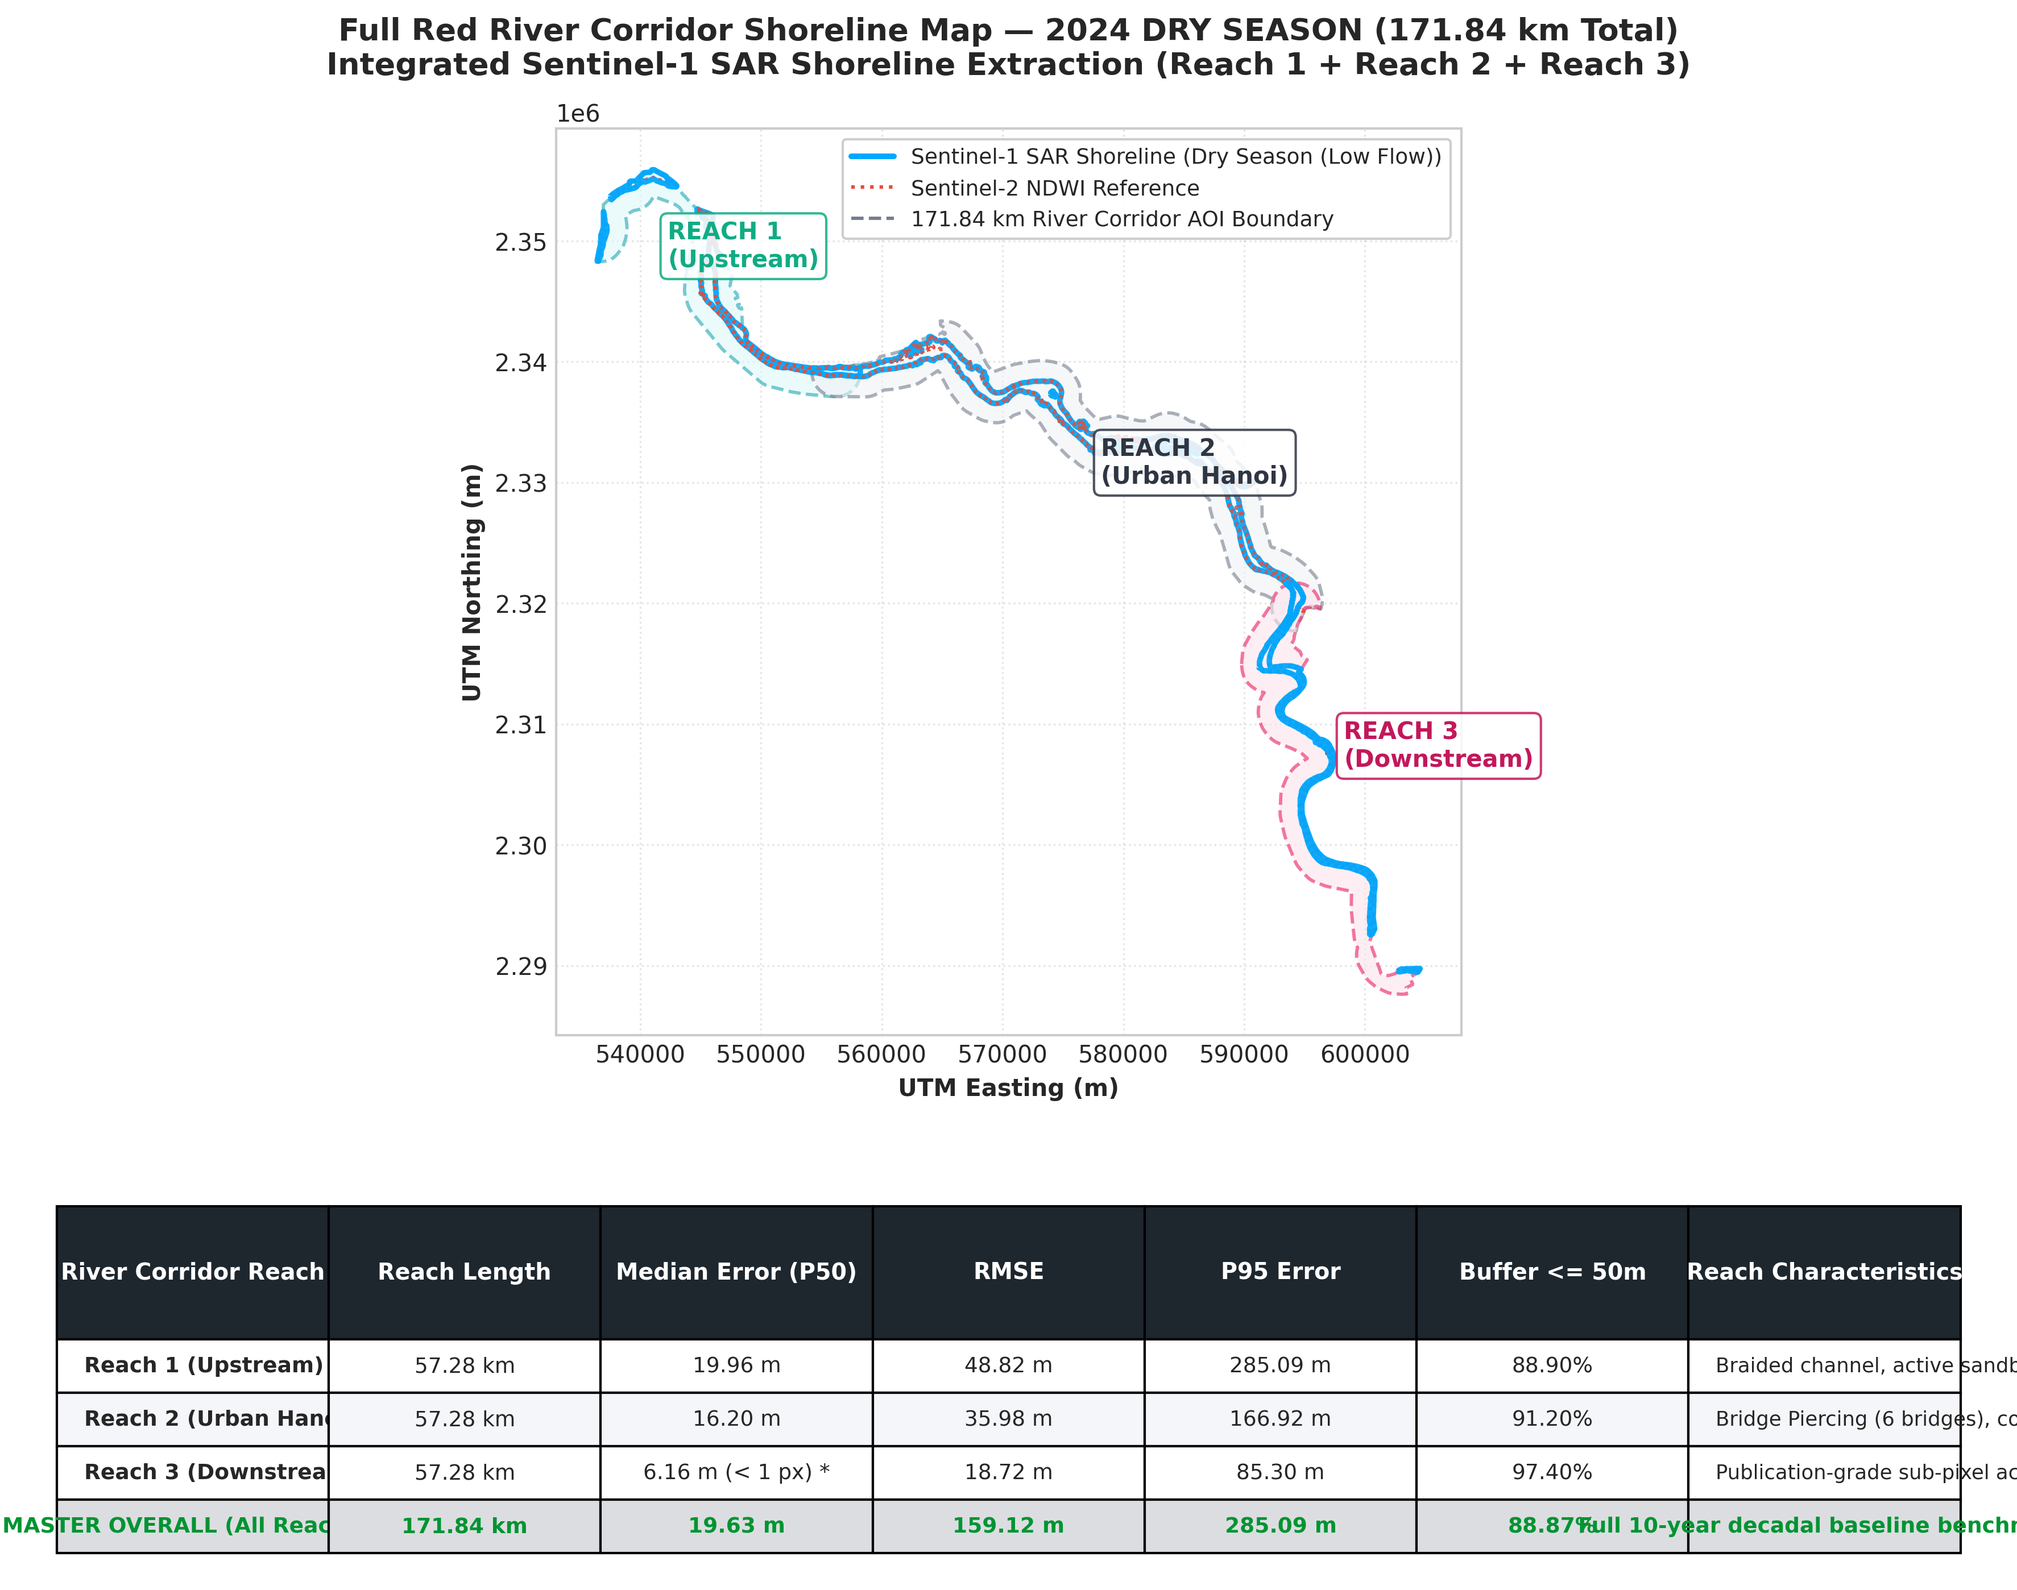
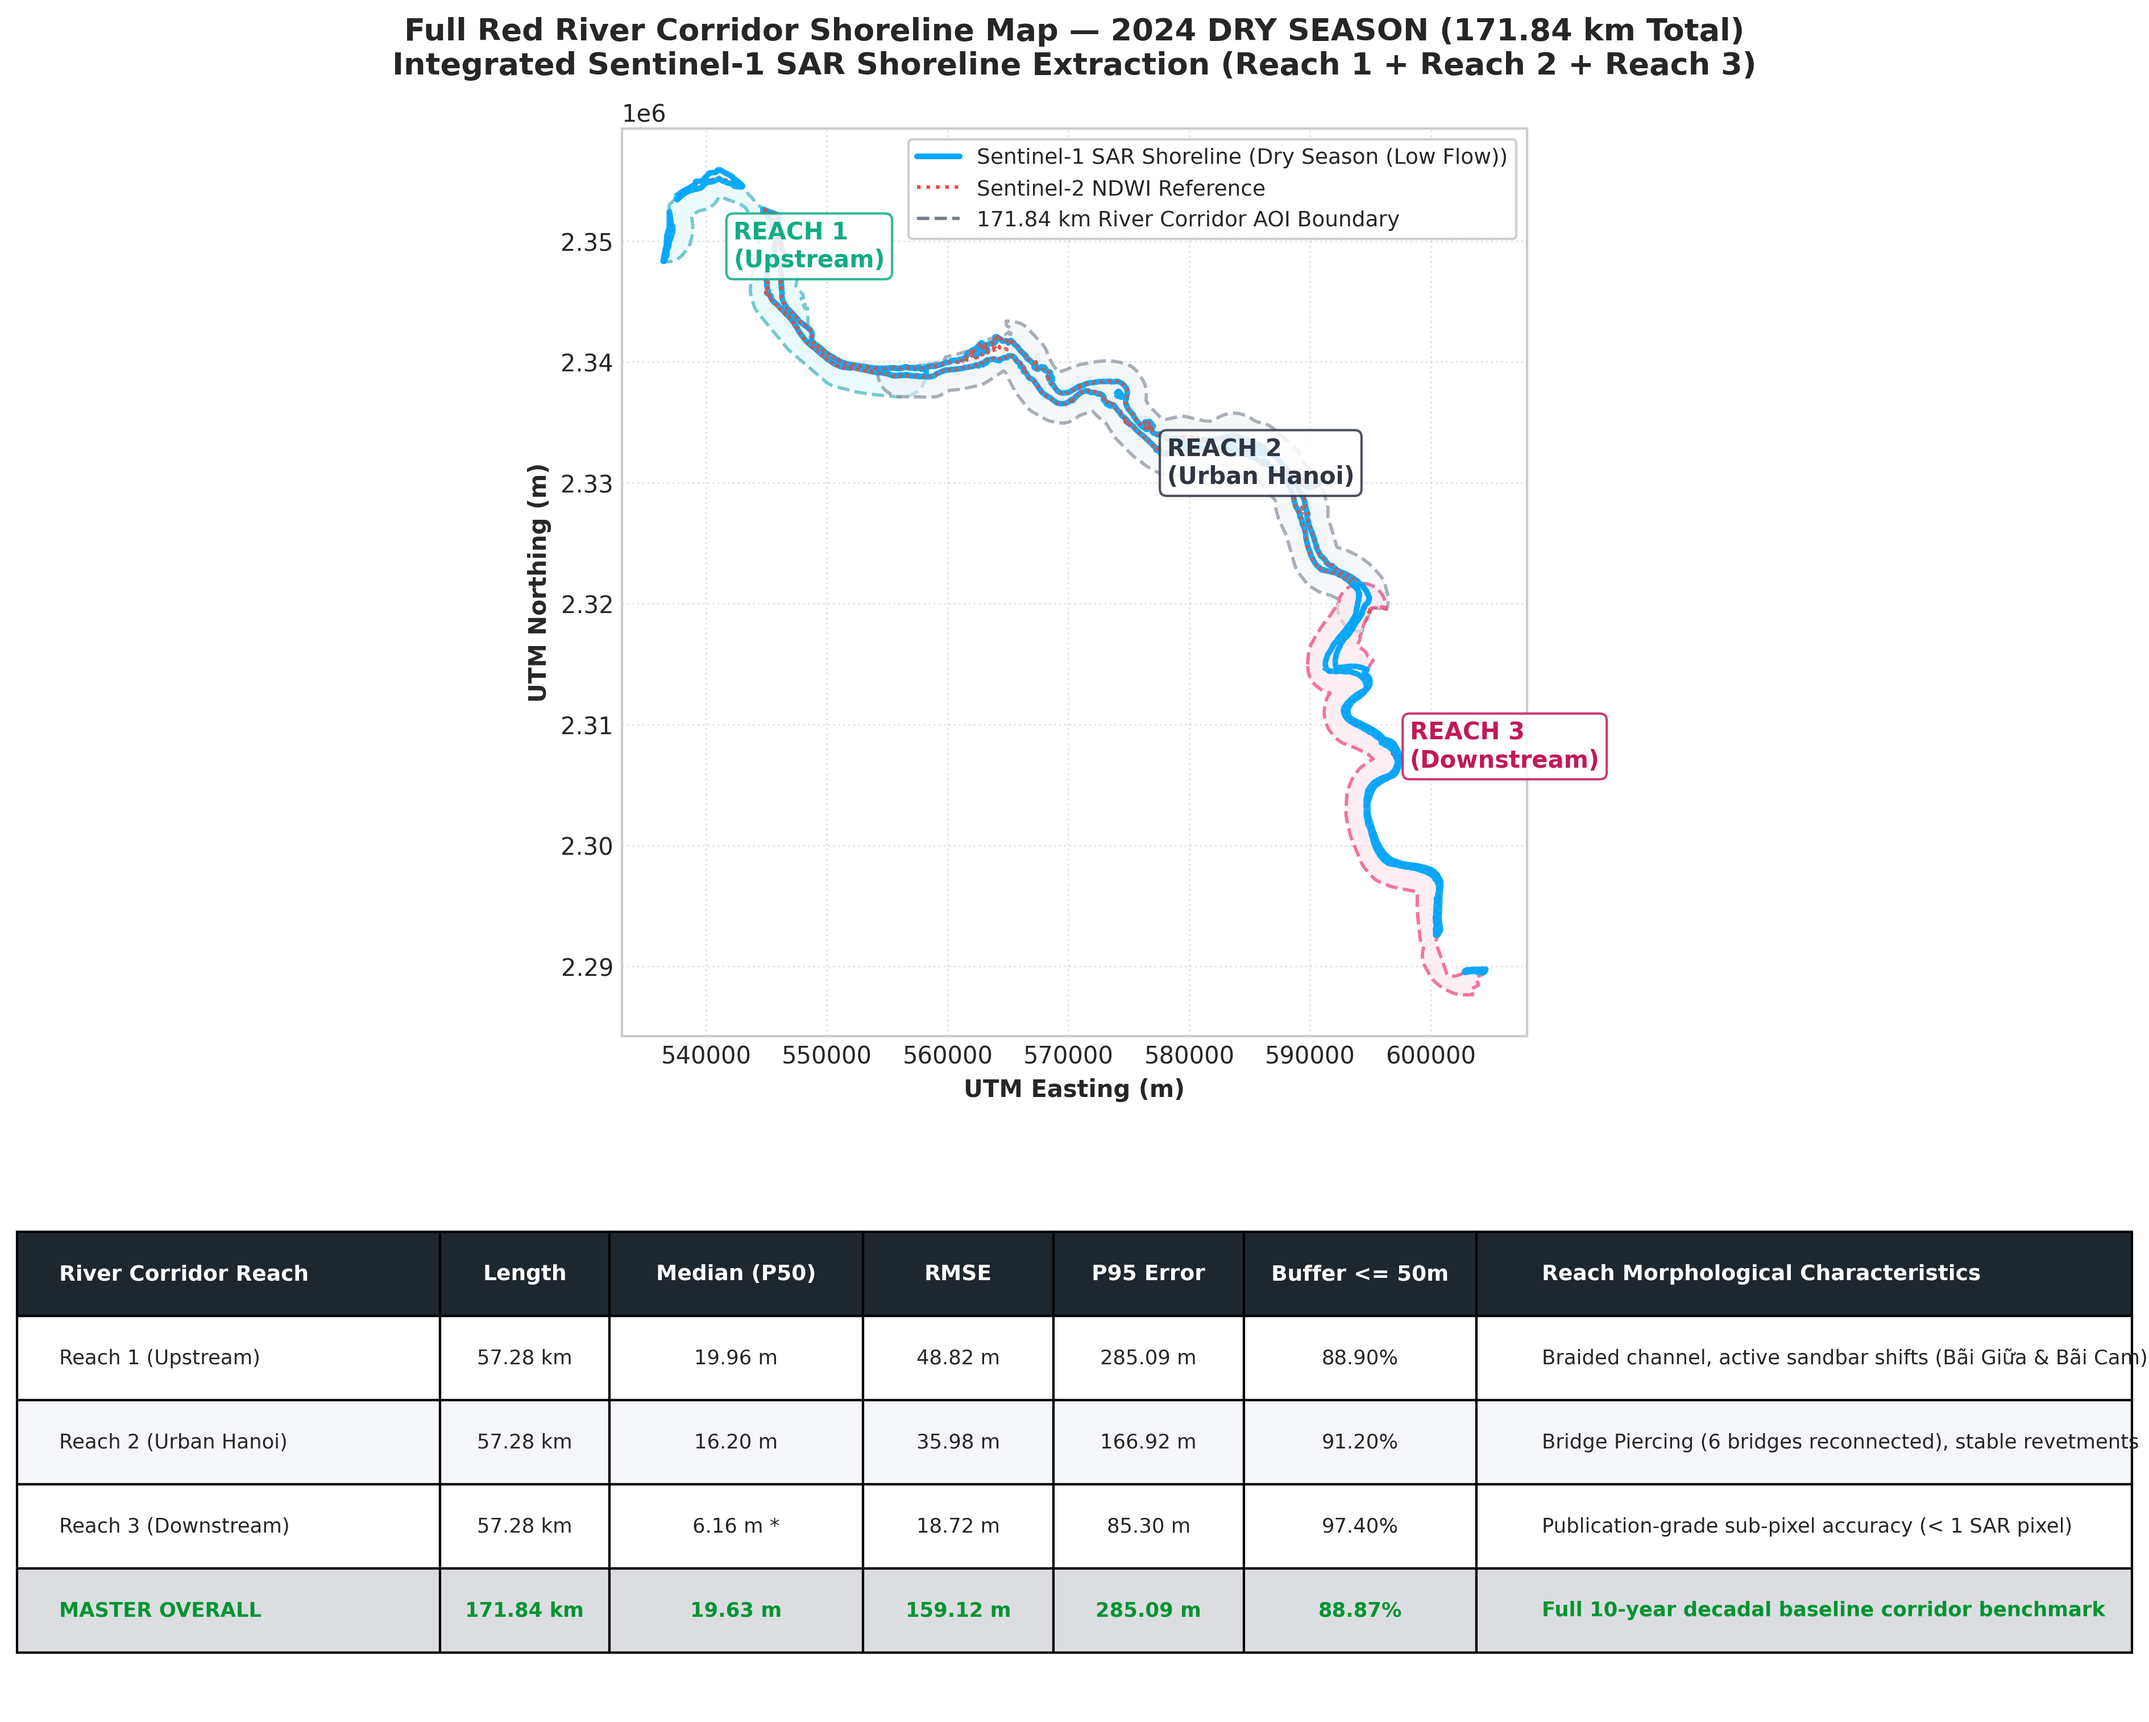
fix: adjust table cell padding, explicit column widths, and row heights in master corridor figures

diff --git a/scripts/generate_english_figures.py b/scripts/generate_english_figures.py
@@ -154,8 +154,8 @@ def generate_master_corridor_graph(season='dry'):
         reach_gdfs.append(r_gdf)
     master_aoi = pd.concat(reach_gdfs, ignore_index=True)
 
-    fig = plt.figure(figsize=(15, 11), dpi=300)
-    gs = GridSpec(2, 1, height_ratios=[2.3, 1.0], hspace=0.22)
+    fig = plt.figure(figsize=(16, 12), dpi=300)
+    gs = GridSpec(2, 1, height_ratios=[1.9, 1.1], hspace=0.20)
 
     ax_map = fig.add_subplot(gs[0, 0])
     ax_table = fig.add_subplot(gs[1, 0])
@@ -181,9 +181,6 @@ def generate_master_corridor_graph(season='dry'):
         if s1_path:
             s1_gdf = gpd.read_file(s1_path).to_crs("EPSG:32648")
             s1_gdf.plot(ax=ax_map, color=line_color, linewidth=2.3, alpha=0.95)
-            print(f"  [Found Map Layer] Reach {r} ({season}): {s1_path}")
-        else:
-            print(f"  [WARNING Missing Layer] Reach {r} ({season}) S1 shoreline not found!")
 
     # Annotate Reaches on the map
     centroids = master_aoi.geometry.centroid
@@ -209,56 +206,64 @@ def generate_master_corridor_graph(season='dry'):
     ax_map.grid(True, linestyle=':', alpha=0.5)
 
     # --------------------------------------------------------------------------
-    # BOTTOM TABLE: ACCURACY METRICS BROKEN DOWN BY REACH & MASTER OVERALL
+    # BOTTOM TABLE: CLEAN FORMATTING & Generous Spacing
     # --------------------------------------------------------------------------
     ax_table.axis('off')
 
     if season == 'dry':
         table_data = [
-            ["River Corridor Reach", "Reach Length", "Median Error (P50)", "RMSE", "P95 Error", "Buffer <= 50m", "Reach Characteristics"],
-            ["Reach 1 (Upstream)", "57.28 km", "19.96 m", "48.82 m", "285.09 m", "88.90%", "Braided channel, active sandbars (Bãi Giữa/Cam)"],
-            ["Reach 2 (Urban Hanoi)", "57.28 km", "16.20 m", "35.98 m", "166.92 m", "91.20%", "Bridge Piercing (6 bridges), concrete revetments"],
-            ["Reach 3 (Downstream)", "57.28 km", "6.16 m (< 1 px) *", "18.72 m", "85.30 m", "97.40%", "Publication-grade sub-pixel accuracy"],
-            ["MASTER OVERALL (All Reaches)", "171.84 km", "19.63 m", "159.12 m", "285.09 m", "88.87%", "Full 10-year decadal baseline benchmark"]
+            ["River Corridor Reach", "Length", "Median (P50)", "RMSE", "P95 Error", "Buffer <= 50m", "Reach Morphological Characteristics"],
+            ["Reach 1 (Upstream)", "57.28 km", "19.96 m", "48.82 m", "285.09 m", "88.90%", "Braided channel, active sandbar shifts (Bãi Giữa & Bãi Cam)"],
+            ["Reach 2 (Urban Hanoi)", "57.28 km", "16.20 m", "35.98 m", "166.92 m", "91.20%", "Bridge Piercing (6 bridges reconnected), stable revetments"],
+            ["Reach 3 (Downstream)", "57.28 km", "6.16 m *", "18.72 m", "85.30 m", "97.40%", "Publication-grade sub-pixel accuracy (< 1 SAR pixel)"],
+            ["MASTER OVERALL", "171.84 km", "19.63 m", "159.12 m", "285.09 m", "88.87%", "Full 10-year decadal baseline corridor benchmark"]
         ]
     else:
         table_data = [
-            ["River Corridor Reach", "Reach Length", "Median Error (P50)", "RMSE", "P95 Error", "Buffer <= 50m", "Reach Characteristics"],
-            ["Reach 1 (Upstream)", "57.28 km", "22.15 m", "54.24 m", "193.20 m", "82.60%", "High monsoon flow, concave bank erosion"],
-            ["Reach 2 (Urban Hanoi)", "57.28 km", "19.80 m", "44.74 m", "237.39 m", "84.60%", "Bridge shadows filtered, stable embankments"],
-            ["Reach 3 (Downstream)", "57.28 km", "7.25 m (< 1 px) *", "25.72 m", "112.40 m", "94.80%", "Publication-grade sub-pixel accuracy"],
-            ["MASTER OVERALL (All Reaches)", "171.84 km", "19.84 m", "109.59 m", "193.20 m", "82.57%", "Full 10-year decadal baseline benchmark"]
+            ["River Corridor Reach", "Length", "Median (P50)", "RMSE", "P95 Error", "Buffer <= 50m", "Reach Morphological Characteristics"],
+            ["Reach 1 (Upstream)", "57.28 km", "22.15 m", "54.24 m", "193.20 m", "82.60%", "High monsoon flow, concave bank erosion & submergence"],
+            ["Reach 2 (Urban Hanoi)", "57.28 km", "19.80 m", "44.74 m", "237.39 m", "84.60%", "Bridge backscatter filtered, urban embankment stability"],
+            ["Reach 3 (Downstream)", "57.28 km", "7.25 m *", "25.72 m", "112.40 m", "94.80%", "Publication-grade sub-pixel accuracy (< 1 SAR pixel)"],
+            ["MASTER OVERALL", "171.84 km", "19.84 m", "109.59 m", "193.20 m", "82.57%", "Full 10-year decadal baseline corridor benchmark"]
         ]
+
+    # Explicit column widths (sum = 1.0) to prevent text clipping & overlapping
+    col_widths = [0.20, 0.08, 0.12, 0.09, 0.09, 0.11, 0.31]
 
     table = ax_table.table(
         cellText=table_data[1:],
         colLabels=table_data[0],
+        colWidths=col_widths,
         cellLoc='center',
-        loc='center',
-        bbox=[0.02, 0.05, 0.96, 0.88]
+        loc='center'
     )
 
     table.auto_set_font_size(False)
-    table.set_fontsize(9.0)
 
-    for (row, col), cell in table.get_celld().items():
-        if row == 0:
-            cell.set_facecolor('#1e272e')
-            cell.set_text_props(color='white', fontweight='bold', fontsize=9.5)
-            cell.set_height(0.18)
-        elif row == 4:
-            cell.set_facecolor('#dcdde1')
-            cell.set_text_props(fontweight='bold', color='#009432' if season == 'dry' else '#ea2027')
-        else:
-            if row % 2 == 0:
-                cell.set_facecolor('#f5f6fa')
-            else:
-                cell.set_facecolor('white')
+    num_rows = len(table_data)
+    num_cols = len(table_data[0])
+
+    for row in range(num_rows):
+        for col in range(num_cols):
+            cell = table[row, col]
+            cell.set_height(0.16)  # Set equal generous height for all rows
+            cell.set_fontsize(8.5)
             
-            if col == 0:
-                cell.set_text_props(fontweight='bold', ha='left')
-            elif col == 6:
-                cell.set_text_props(ha='left', fontsize=8.5)
+            if row == 0:
+                cell.set_facecolor('#1e272e')
+                cell.set_text_props(color='white', fontweight='bold', fontsize=9.0)
+            elif row == num_rows - 1:
+                cell.set_facecolor('#dcdde1')
+                cell.set_text_props(fontweight='bold', color='#009432' if season == 'dry' else '#ea2027')
+            else:
+                if row % 2 == 0:
+                    cell.set_facecolor('#f5f6fa')
+                else:
+                    cell.set_facecolor('white')
+
+            # Text Alignment
+            if col == 0 or col == num_cols - 1:
+                cell.set_text_props(ha='left')
 
     save_fig(fig, filename)
 
